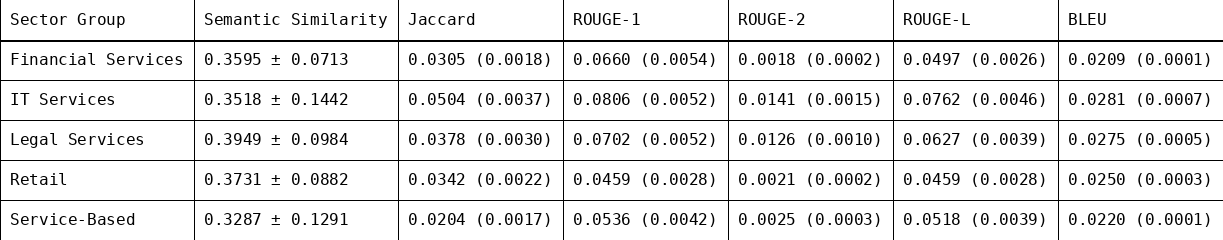
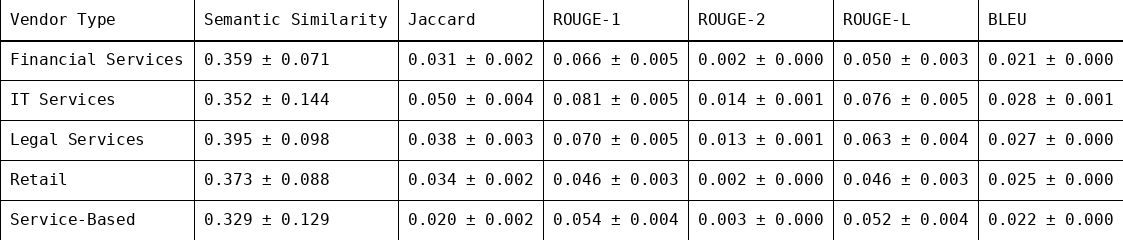
added 3 decimal images

diff --git a/make_table.py b/make_table.py
@@ -14,17 +14,17 @@ def table_txt():
         scores = group["similarity_scores"]
         row = [
             sectors,
-            f"{scores['semantic_similarity_mean']:.4f} ± {scores['semantic_similarity_std']:.4f}",
-            f"{scores['jaccard_similarity']:.4f} ({scores['jaccard_variance']:.4f})",
-            f"{scores['rouge1_f1']:.4f} ({scores['rouge1_variance']:.4f})",
-            f"{scores['rouge2_f1']:.4f} ({scores['rouge2_variance']:.4f})",
-            f"{scores['rougeL_f1']:.4f} ({scores['rougeL_variance']:.4f})",
-            f"{scores['bleu_score']:.4f} ({scores['bleu_variance']:.4f})"
+            f"{scores['semantic_similarity_mean']:.3f} ± {scores['semantic_similarity_std']:.3f}",
+            f"{scores['jaccard_similarity']:.3f} ({scores['jaccard_variance']:.3f})",
+            f"{scores['rouge1_f1']:.3f} ({scores['rouge1_variance']:.3f})",
+            f"{scores['rouge2_f1']:.3f} ({scores['rouge2_variance']:.3f})",
+            f"{scores['rougeL_f1']:.3f} ({scores['rougeL_variance']:.3f})",
+            f"{scores['bleu_score']:.3f} ({scores['bleu_variance']:.3f})"
         ]
         table_data.append(row)
 
     # Generate table using tabulate
-    table = tabulate(table_data, headers=headers, tablefmt="grid", floatfmt=".4f")
+    table = tabulate(table_data, headers=headers, tablefmt="grid", floatfmt=".3f")
 
     # Print table to console
     print(table)
@@ -35,19 +35,19 @@ def table_txt():
 
 def table_image():
     table_data = []
-    headers = ["Sector Group", "Semantic Similarity", "Jaccard ", "ROUGE-1", "ROUGE-2", "ROUGE-L", "BLEU"]
+    headers = ["Vendor Type", "Semantic Similarity", "Jaccard ", "ROUGE-1", "ROUGE-2", "ROUGE-L", "BLEU"]
 
     for group in data["groups"]:
         sectors = ", ".join(group["sectors"])  # Convert sector list to string
         scores = group["similarity_scores"]
         row = [
             sectors,
-            f"{scores['semantic_similarity_mean']:.4f} ± {scores['semantic_similarity_std']:.4f}",
-            f"{scores['jaccard_similarity']:.4f} ({scores['jaccard_variance']:.4f})",
-            f"{scores['rouge1_f1']:.4f} ({scores['rouge1_variance']:.4f})",
-            f"{scores['rouge2_f1']:.4f} ({scores['rouge2_variance']:.4f})",
-            f"{scores['rougeL_f1']:.4f} ({scores['rougeL_variance']:.4f})",
-            f"{scores['bleu_score']:.4f} ({scores['bleu_variance']:.4f})"
+            f"{scores['semantic_similarity_mean']:.3f} ± {scores['semantic_similarity_std']:.3f}",
+            f"{scores['jaccard_similarity']:.3f} ± {scores['jaccard_variance']:.3f}",
+            f"{scores['rouge1_f1']:.3f} ± {scores['rouge1_variance']:.3f}",
+            f"{scores['rouge2_f1']:.3f} ± {scores['rouge2_variance']:.3f}",
+            f"{scores['rougeL_f1']:.3f} ± {scores['rougeL_variance']:.3f}",
+            f"{scores['bleu_score']:.3f} ± {scores['bleu_variance']:.3f}"
         ]
         table_data.append(row)
 
